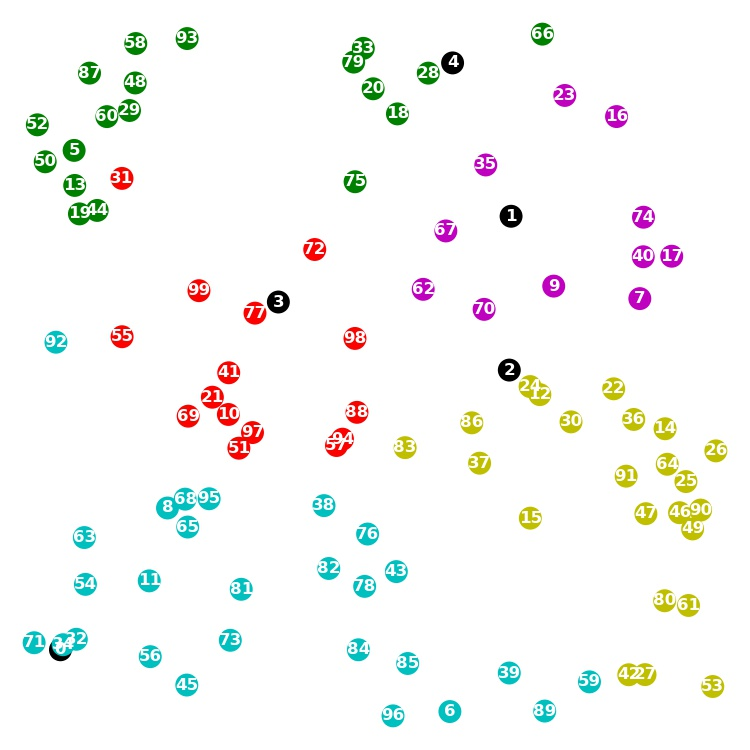
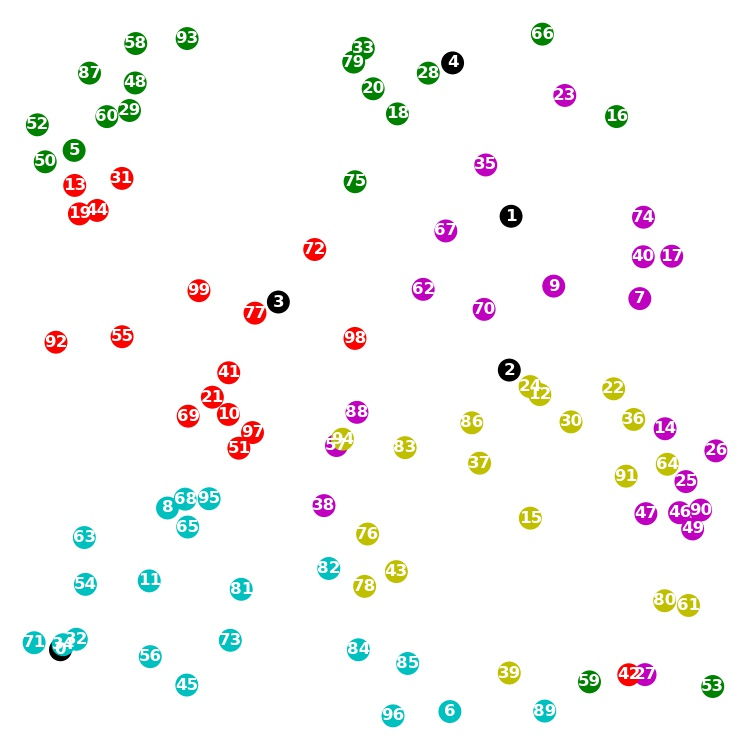
Substituindo heurística

diff --git a/subdivisao.py b/subdivisao.py
@@ -1,6 +1,6 @@
 '''
 GCC2018 Algoritmos em Grafos - Trabalho final
-subdivisao.py
+kcluster.py
 
 Alunos: 
 Heuller Silva, João Pedro Andolpho, Luiz Carlos Conde,
@@ -10,165 +10,67 @@ Gabriel Amorim, Renan Modenese e Victor Landin
 import networkx as nx
 from networkx import MultiGraph
 from math import sqrt
-from statistics import stdev
+from statistics import mean, stdev
 from pprint import pprint
 from operator import itemgetter
-#from collections import OrderedDict
-from random import choice
-#from copy import deepcopy
+from collections import OrderedDict
 
-def calcula_distancia(G, u, v):
-        """Calcula a distância euclideana entre os vértices u,v de G."""
-        distancia = sqrt((G.nodes[u]['x'] - G.nodes[v]['x'])**2 +
-                         (G.nodes[u]['y'] - G.nodes[v]['y'])**2)
-        return distancia
-
-def k_regioes(G, k):
-    """Heurística ...
-    Faz distribuição inicial dos vértices de maneira uniforme entre as
-    regiões.
-
-    args:
-        G: grafo não direcionado onde os k primeiros vértices são centros
-        k: número de regiões desejadas
-
-    returns:
-        None
-    """
-
-    # declaração de funções auxiliares
-
-    def calcula_demanda(G, k=1):  
-        """Calcula a demanda total dos vértices de G e divide por k regiões."""
-        demandas = [G.nodes[v].get('volume') * G.nodes[v].get('valor')
-                    for v in G.nodes()]
-        demanda_total = sum(demandas)
-        demanda_ideal = demanda_total / k
-        return demanda_ideal
+def calcula_distancia(G, u, v, x='x', y='y'):
+    """Calcula a distância euclideana entre os vértices u,v de G."""
+    return sqrt((G.nodes[u][x] - G.nodes[v][x])**2 +
+                (G.nodes[u][y] - G.nodes[v][y])**2)
 
 
-    def calcula_desvio(r):
-        """ """
-        Gr = G.subgraph(lista_regioes[r]) # .keys()
-        demanda = calcula_demanda(Gr)
-        desvio = stdev([demanda, demanda_ideal])
-        return desvio
-
-    
-    def olha_ao_redor(v, r_v, alcance=10):
-        """ """
-        # obtem as coordenadas de v
-        x, y = (G.nodes[v]['x'], G.nodes[v]['y'])
-        # itera u mais distantes de regioes vizinhas, em sentido randômico
-        regioes = list(range(k))
-        regioes.remove(r_v)
-        ordem = choice((regioes, reversed(regioes)))
-        for r_u in ordem:
-            if r_u != r_v:
-                for u in reversed([t[0] for t in matrizes_ordenadas[r_u]]):
-                    if u in lista_regioes[r_u]:
-                        # se u está proximo de v, retorna u e sua região
-                        x_u, y_u = (G.nodes[u]['x'], G.nodes[u]['y'])
-                        if abs(x - x_u) < alcance and abs(y - y_u) < alcance:
-                            print('Encontrado {} na regiao {}'.format(u, r_u))
-                            return (u, r_u)
-        return (None, None)
+def demanda_vertice(G, v): 
+    return G.nodes[v].get('volume') * G.nodes[v].get('valor')
 
 
-    def troca_vertice(v, r_atual, r_destino):
-        """ """
-        print('Removendo v{} de r{} a adiconando a r{}'.format(v, r_atual, r_destino))
-        lista_regioes[r_atual] -= {v}
-        lista_regioes[r_destino].add(v)
-        
+def obter_vertice(G, nao_alocados, matrizes_ordenadas, r):
+    proximo = next(iter(nao_alocados))
+    for v in nao_alocados:
+        #print('{} {} {} {}'.format(v, calcula_distancia(G, r, v), proximo, calcula_distancia(G, r, proximo)))
+        if (calcula_distancia(G, r, v) < calcula_distancia(G, r, proximo)):
+            proximo = v
+    #print ("vertice obtido: ", proximo)
+    return proximo
 
 
-
-    # inicializa as regiões com seus centros
+def subdivisao(G, k):
+    """ """
     lista_regioes = [{centro} for centro in range(k)]
-
     # calcula distancia dos vertices para cada um dos centros
     matriz_distancias = {}  # {regiao:[distancias]}
     for v in range(k, G.order()):
         distancias = [calcula_distancia(G, centro, v) for centro in range(k)]
         matriz_distancias[v] = distancias
-
     # ordena matriz_distancias para cada centro, salva resultados numa lista
     matrizes_ordenadas = [sorted(matriz_distancias.items(), 
                           key=lambda v: v[1][r]) for r in range(k)]
-    
+
+
+    # inicializa variáveis 
     nao_alocados = {v for v in G.nodes() if v >= k}
-    i = 0
-    # adiciona vértices não alocados nas regiões, de forma alternada
+    demandas = [0 for r in range(k)]
+
     while nao_alocados:
-        for r in range(k):
-            # escolhe o i-ésimo vertice mais próximo do centro de r
-            v = matrizes_ordenadas[r][i][0]
-            if v in nao_alocados:
-                # adiciona v a regiao r 
-                lista_regioes[r].add(v)
-                nao_alocados -= {v}
-        i += 1
+        # encontra região com menor demanda
+        r = demandas.index(min(demandas))
+        # obtem vértice mais próximo do centro de r
+        v = obter_vertice(G, nao_alocados, matrizes_ordenadas, r)
+        print('Alocando {} em {}'.format(v, r))
+        # soma demanda do vértice a demanda da região
+        demandas[r] += demanda_vertice(G, v)
+        # aloca vertice na regiao r e remove dos não alocados
+        lista_regioes[r].add(v)
+        G.nodes()[v]['regiao'] = r
+        nao_alocados -= {v}
 
-    # calcula demandas e desvios das regioes
-    demandas = {r: calcula_demanda(G.subgraph(lista_regioes[r])) for r in range(k)}
-    demanda_ideal = calcula_demanda(G, k)
-    desvios = {r: calcula_desvio(r) for r in range(k)}
-    print('demanda ideal:', demanda_ideal)
-    print('demandas =', demandas)
-    print('desvios =', desvios)
-    print('soma desvios =', sum(desvios.values()))
+    demanda_ideal = sum(demandas) / k
+    desvios = [stdev([demandas[r], demanda_ideal]) for r in range(k)]
 
-    # obtem lista de r (int) ordenada conforme demandas
-    desvios_decrescente = sorted(desvios.items(), key=itemgetter(1),
-                                 reverse=True)
-    r_por_desvio = [desvios_decrescente[r][0] for r in range(k)]
-    polaridade = lambda r: 1 if demandas[r] > demanda_ideal else -1
-
-    desvio_atual = desvios[r]
-    desvio_anterior = float('inf')
-    #while(desvio_anterior - desvio_atual > 2): 
-    #for i in range(10):
-    trocados = set()
-    r_por_desvio = [desvios_decrescente[r][0] for r in range(k)]
-    for r in r_por_desvio:            
-        print('Iniciando trocas para regiao {}'.format(r))
-        vertices_ordenados = [t[0] for t in matrizes_ordenadas[r]]
-        vertices_regiao = [v for v in vertices_ordenados if v in lista_regioes[r]]
-        n = len(vertices_regiao) // 2
-        v_regiao_dec = list(reversed(vertices_regiao))
-        vertices_distantes = v_regiao_dec[:n]
-        print('vertices_distantes: {}'.format(vertices_distantes))
-        for u in vertices_distantes:
-            print('Procurando v proximo de u{} em {}'.format(u, r))
-            v, r_vizinha = olha_ao_redor(u, r)
-            if r_vizinha == None or polaridade(r) == polaridade(r_vizinha):
-                print('Não encontrado ou mesma polaridade')
-                break
-            elif polaridade(r) > polaridade(r_vizinha) and u not in trocados:
-                troca_vertice(u, r, r_vizinha)
-                trocados.add(u)
-            elif v not in trocados:
-                troca_vertice(v, r_vizinha, r)
-                trocados.add(v)
-            demandas[r] = calcula_demanda(G.subgraph(lista_regioes[r]))
-            desvio_anterior = desvio_atual
-            print('Desvio anterior: {}'.format(desvio_anterior))
-            desvio_atual = calcula_desvio(r)
-            print('Novo desvio: {}'.format(desvios[r]))
-
-    demandas = {r: calcula_demanda(G.subgraph(lista_regioes[r])) for r in range(k)}
-    desvios = {r: calcula_desvio(r) for r in range(k)}
-    print('demandas =', demandas)
-    print('desvios =', desvios)
-    print('soma desvios =', sum(desvios.values()))
-    print('-'*20)
-
+    print('Demandas: {}'.format(demandas))   
+    print('Demanda ideal: {}'.format(demanda_ideal))
+    print('Desvios: {}'.format(desvios))
+    print('Soma dos desvios: {}'.format(sum(desvios)))
+ 
     
-    # escreve as regiões definitivas nos vértices (para plotar)
-    for r in range(k):
-        for v in lista_regioes[r]:
-            G.nodes()[v]['regiao'] = r
-    
-    return lista_regioes
-
